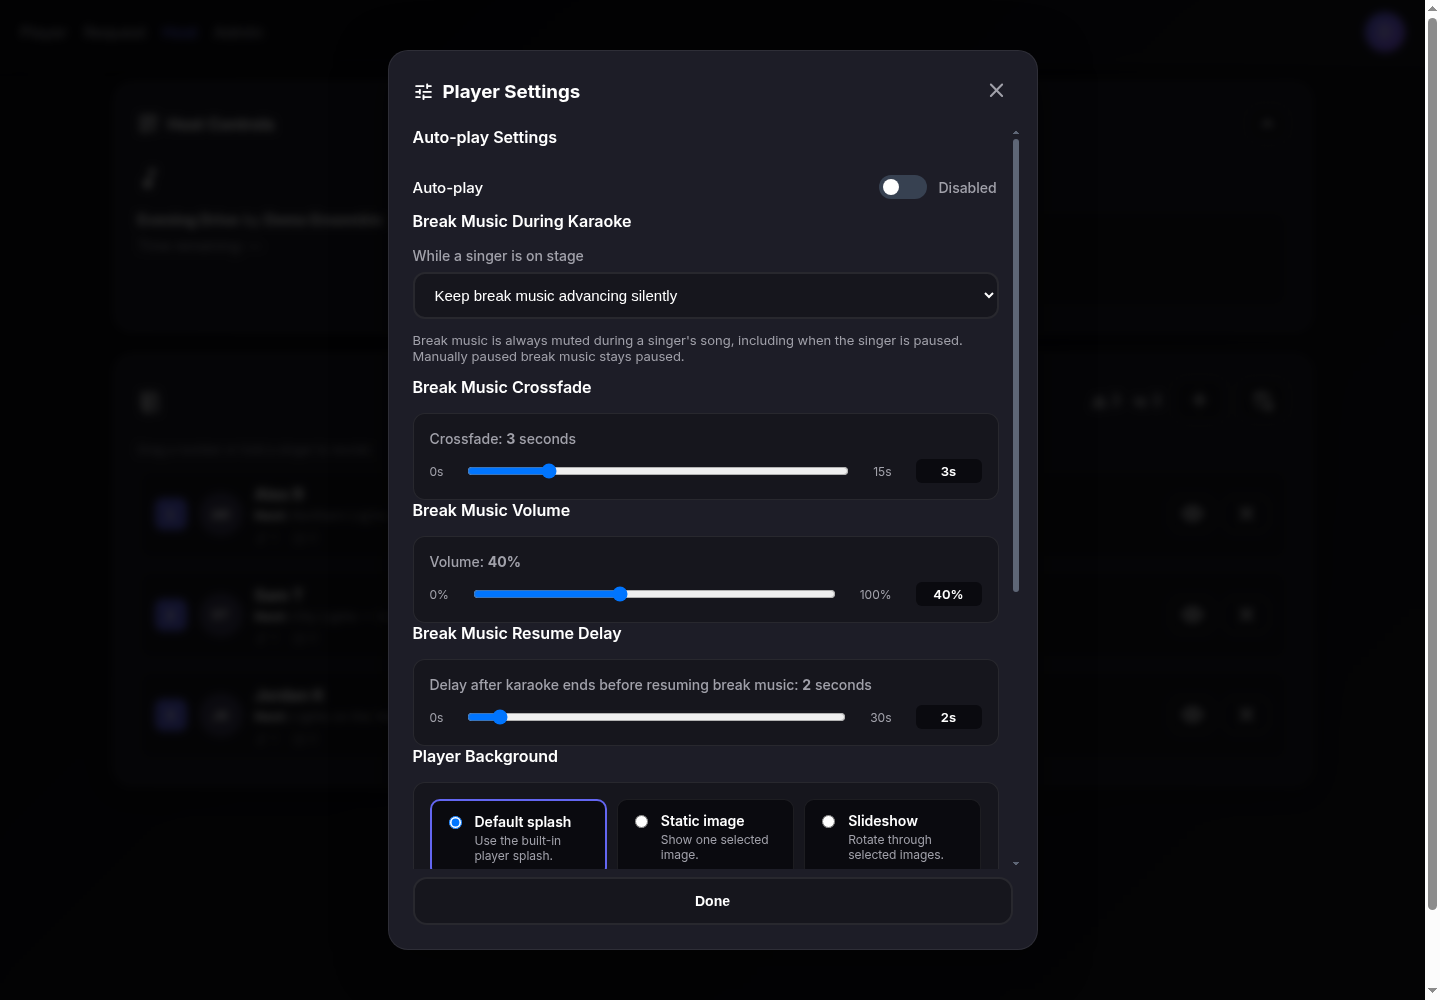
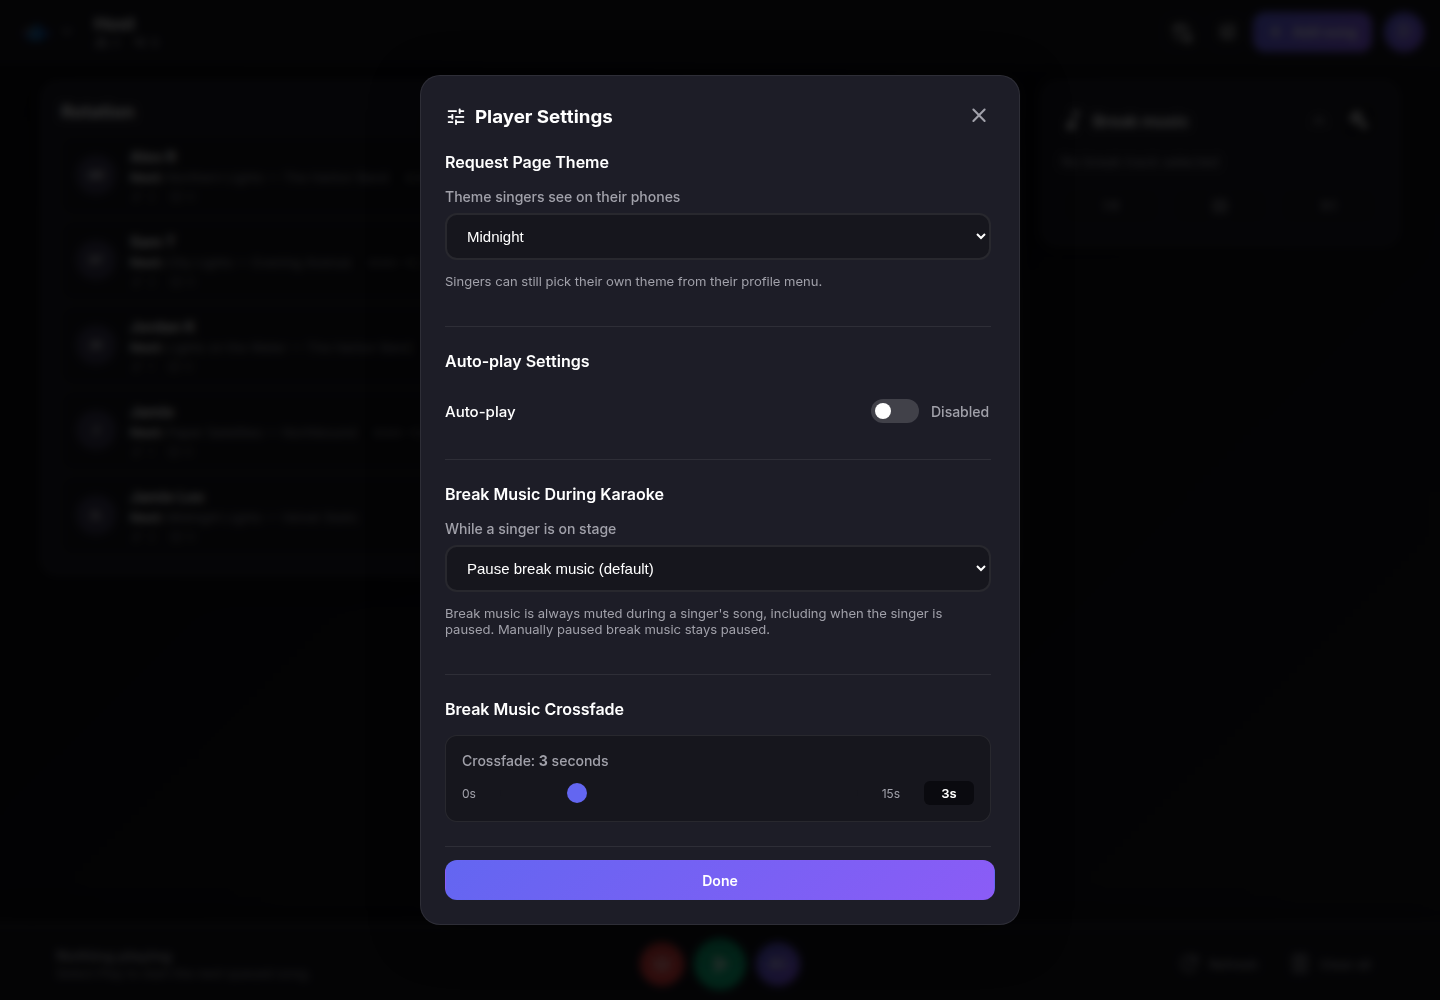
Documentation update

diff --git a/src/web/src/pages/admin/KaraFunSection.tsx b/src/web/src/pages/admin/KaraFunSection.tsx
@@ -132,8 +132,8 @@ export default function KaraFunSection({ admin }: { admin: AdminState }) {
         <p style={{ margin: "0 0 16px", color: "var(--color-text-muted)", fontSize: 14 }}>
           Connect a KaraFun subscription account to include its catalog in song search.
           Credentials are hashed with the same scheme as the KaraFun desktop app before
-          being stored; the clear password is never saved or returned. The Player streams
-          KaraFun songs directly; nothing is downloaded to the media library.
+          being stored; the clear password is never saved or returned. KaraFun songs are
+          never saved to the media library.
         </p>
 
         <div className="form-group">
@@ -211,22 +211,22 @@ export default function KaraFunSection({ admin }: { admin: AdminState }) {
           )}
           <div style={{ marginTop: 12, paddingTop: 12, borderTop: "1px solid var(--color-border)", fontSize: 14 }}>
             <div>
-              <strong>Renderer:</strong> built-in KaraokeDock engine (Web Audio +
-              WebGL)
+              <strong>Playback:</strong> built-in KaraokeDock engine
             </div>
             <div style={{ color: "var(--color-text-muted)", fontSize: 13, marginTop: 4 }}>
-              No KaraFun application or proprietary engine files are required.
-              The Player renders lyrics, backgrounds and a MilkDrop-family
-              visualizer in the browser, and follows the Host's key changes.
+              No KaraFun application or engine files are required. When a song is
+              requested, the server mixes it at the requested key and keeps the mix in
+              memory for up to 4 hours. The Player streams that mix and shows KaraFun's
+              lyrics and title card over an animated background. A key change made while
+              the song is queued is mixed again; a change during the song is not applied.
             </div>
           </div>
         </div>
 
         <p style={{ margin: "12px 0 0", color: "var(--color-text-muted)", fontSize: 13 }}>
-          KaraFun audio is streamed and played in the browser as Ogg Vorbis; it is only
-          held in a short-lived memory cache, not saved to the media library. It needs a
-          browser with Ogg Vorbis support (Chrome, Edge, Firefox and the Android Player app;
-          not Safari).
+          If the server mix is unavailable, the Player mixes the song in the browser
+          instead. That fallback needs Ogg Vorbis support (Chrome, Edge, Firefox and the
+          Android Player app; not Safari).
         </p>
       </div>
     </div>

diff --git a/docs/README.md b/docs/README.md
@@ -11,6 +11,7 @@ can manage the show from one screen while guests request songs from their phones
 - [Changelog and upgrade notes](../CHANGELOG.md)
 - [Features](#features)
 - [Web pages overview](#web-pages-overview)
+- [Themes](#themes)
 - [Quick start with Docker](#quick-start-with-docker)
 - [First-time setup](#first-time-setup)
 - [Authentication and roles](#authentication-and-roles)
@@ -25,14 +26,20 @@ can manage the show from one screen while guests request songs from their phones
 
 - Local MP4, CDG+MP3, and ZIP karaoke libraries, with FFmpeg transcoding and
   pitch adjustment.
-- Combined local and Karaoke Nerds search, relevance-ranked results, and
-  artist/song browsing.
+- Combined local, Karaoke Nerds and KaraFun search, relevance-ranked results,
+  and artist/song browsing.
+- Optional KaraFun catalog (with a KaraFun subscription): songs are prepared on
+  the server when requested and played on the Player with KaraFun's own lyric
+  timing, title card and an animated background. Nothing is saved to the media library.
 - Live singer queues, drag-and-drop ordering, multiple rotation policies,
   autoplay, singer recall, and history import/export.
 - Break music playlists, crossfades, and a choice to pause or silently advance
   break music during a performance.
-- Singer profiles, pictures and crops, optional Google/Facebook login, and
-  administrator-managed account linking.
+- Singer profiles, pictures and crops, optional Google/Facebook login,
+  administrator-managed account linking, and Host merging of a guest profile into
+  a signed-in singer.
+- A warning when a singer requests a song (any version) that another singer
+  already has queued.
 - Local password login and OIDC group-based roles.
 - Fullscreen Player with QR code, scrolling queue, custom backgrounds, and
   separate Host/Player PWA installation.
@@ -55,17 +62,31 @@ Replace `your-server:5173` with your server address or public HTTPS hostname.
 Old `/requests` links redirect to `/request`. Unknown page paths return 404.
 Public legal pages are available at `/privacy` and `/terms`.
 
-The screenshots below were captured from the current UI on **2026-10-23** with
-fictional singers and sample catalog data, not a live venue or production account.
+The screenshots below were captured from the current UI on **2026-11-23** with
+fictional singers, songs and accounts, not a live venue or production account.
 
 ### Request
 
-Search local and enabled online sources from the same page. Browse Artists and
-Browse Songs reuse the main query and restrict it to the selected field. Open
-the cog for search options; use the profile menu for name, picture, history,
-logout, and application version.
+Search local and enabled online sources from the same page. Artists and Songs
+reuse the main query and restrict it to the selected field. Results show where
+each version comes from: a disc ID and format for local songs, a globe for
+Karaoke Nerds videos, and the KaraFun logo for KaraFun songs. Use the profile
+menu for name, picture, history, logout, and application version.
 
-![Current Request page showing combined search and sample song results](screenshots/requests-page.png)
+![Current Request page showing local, Karaoke Nerds and KaraFun results](screenshots/requests-page.png)
+
+Open the filter button to choose a source (All, Local, Online for Karaoke Nerds,
+or KaraFun), where to search, and the format. Format applies only to local
+songs, so it is disabled while the KaraFun source is selected.
+
+![Request filters with the KaraFun source selected and Format disabled](screenshots/requests-karafun-filter.png)
+
+**My Queue** lists your requested songs with the version you picked: the disc
+and format, the Karaoke Nerds brand, or KaraFun, plus any key change. If you
+request a song another singer already has queued, in any version, it is still
+added and a warning tells you.
+
+![My Queue on a phone showing a local CDG song and a KaraFun song](screenshots/requests-my-queue.png)
 
 ### Host
 
@@ -73,7 +94,24 @@ Managed Users and Admins can add singers, reorder or clear queues, recall
 singers, manage history, and control playback. Drag a queue number or hold a
 singer card to reorder on supported touch devices.
 
-![Current Host page with a three-singer sample queue](screenshots/host-page.png)
+![Current Host page with a five-singer sample rotation](screenshots/host-page.png)
+
+#### Add songs for a singer
+
+**Add song** searches the local library, Karaoke Nerds (External), KaraFun, or
+takes a video URL. On a phone the four sources wrap onto two rows.
+
+![Add to Queue dialog searching KaraFun](screenshots/host-add-song.png)
+
+#### Merge a guest into a signed-in singer
+
+When someone first joined by name and later signed in with Google, Facebook, SSO
+or a password, open either singer and select the **Merge guest singer** button. Pick the signed-in
+singer to keep and the guest profile to merge in. The guest's queue and history
+move to the signed-in singer, whose name and picture are kept; logins and their
+permissions do not change. Linking two logins to each other stays an Admin action.
+
+![Merge Guest Singer into Login dialog on Host](screenshots/host-guest-merge.png)
 
 #### Manage break music
 
@@ -94,27 +132,53 @@ warning without discarding the saved playlist.
 
 #### Configure playback settings
 
-Use Host's settings control for autoplay, rotation, break music behavior,
-backgrounds, and QR/scroller options.
+Use Host's settings control for the Request page theme, autoplay, rotation,
+break music behavior, backgrounds, and QR/scroller options.
 
 ![Current Player Settings dialog opened from Host](screenshots/player_mgmt.png)
 
 ### Player
 
 Open Player on the show display and control it from Host on another device.
+Between songs it shows who is up next and the address guests use to request.
 The QR code and scroller remain separate from video playback. Local video uses
 cover sizing, which can crop edges when aspect ratios differ.
 
-![Current Player waiting screen with sample singer, QR code, and queue scroller](screenshots/player-page.png)
+![Current Player waiting screen with the next singer, request address, QR code and queue scroller](screenshots/player-page.png)
 
 ### Admin
 
-Admins manage media libraries and scans, break music folders, accounts,
-authentication, library availability, and public legal information. Linking
-social logins to a managed account is an explicit Admin action; matching names
-does not automatically grant access.
+Admins manage media libraries and scans, break music folders, the KaraFun
+account, accounts, authentication, library availability, backups, and public
+legal information. Linking social logins to a managed account is an explicit
+Admin action; matching names does not automatically grant access.
 
-![Current Admin dashboard with sample library and statistics](screenshots/admin-page.png)
+![Current Admin overview with sample statistics and sections](screenshots/admin-page.png)
+
+The **KaraFun** section stores the KaraFun account used for the online catalog
+and shows its connection status. The password is stored only as a hash. Turn
+KaraFun on or off for singers under System → Library Availability & Requests.
+When a KaraFun song is requested, the server mixes it at the requested key and
+keeps the mix in memory for up to 4 hours; the Player streams it. KaraFun songs
+are never saved to the media library.
+
+![Admin KaraFun section with a fictional connected account](screenshots/admin-karafun.png)
+
+### Themes
+
+KaraokeDock has three themes: **Midnight** (the default), **Stage** and
+**Daylight**.
+
+- **Venue theme:** the Host sets it under Player Settings → Request Page Theme.
+  It is used by the Request page and the Player.
+- **Singers** can keep the venue theme or pick their own from the profile menu
+  on the Request page. The choice is remembered on that phone.
+- **Host and Admin** share one theme, chosen from the account menu in the top
+  bar and remembered in that browser.
+
+![The Request page in the Midnight, Stage and Daylight themes](screenshots/themes-request.png)
+
+![The Host page in the Stage and Daylight themes](screenshots/themes-host.png)
 
 ## Quick start with Docker
 

diff --git a/docs/unraid_readme.md b/docs/unraid_readme.md
@@ -10,6 +10,7 @@ This guide covers installing KaraokeDock on Unraid from **Community Applications
 - A share or folder for karaoke tracks
 - Optional folders for downloaded tracks and break music
 - Persistent writable folders for downloads, uploaded player images, and exported playlists
+- Optional: a KaraFun subscription account, to add KaraFun's online catalog
 
 ## Recommended shares and folders
 
@@ -188,6 +189,31 @@ Leave it blank to let KaraokeDock auto-pick a value.
 
 The advanced **Media Scan Interval (ms)** setting defaults to `900000` (15 minutes). Enable **periodic media library scan** in Admin separately; changing the interval alone does not enable scanning. The first enabled pass reconciles the library, and subsequent passes scan changed folders. Failed scans remain pending for retry.
 
+## KaraFun (optional)
+
+KaraokeDock can add the KaraFun online catalog to song search for venues with a
+KaraFun subscription. It needs no extra paths or template variables, only
+outbound HTTPS access from the container to KaraFun.
+
+1. In Admin, open **KaraFun**, enter the KaraFun username/e-mail and password,
+   then select **Save KaraFun settings** and **Test connection**.
+2. Turn KaraFun on for singers under **Admin → System → Library Availability &
+   Requests**. Singers then see KaraFun results, tagged with the KaraFun logo,
+   and a KaraFun source filter on the Request page.
+
+Things to know on Unraid:
+
+- **Nothing is written to your shares.** When a KaraFun song is requested, the
+  server mixes it with FFmpeg at the requested key (up to two songs at a time)
+  and keeps the mix in memory for up to 4 hours. The cache holds at most 40
+  songs or 256 MB. If you set a memory limit on the container, leave room for it.
+- **The password is stored only as a hash**, with the other settings in
+  PostgreSQL, so database backups include the KaraFun configuration.
+- **Player browsers:** the Player streams the server's mix, so any current
+  browser works. If the server mix is unavailable, the Player falls back to mixing
+  in the browser, which needs Ogg Vorbis support (Chrome, Edge, Firefox or the
+  Android Player app, not Safari).
+
 ## First startup
 
 1. Start PostgreSQL.
@@ -201,6 +227,7 @@ http://UNRAID_IP:5173/admin
 
 5. Add `/media/karaoke` as a local library in Admin, and `/media/breakmusic` as a break-music folder if used. Use container paths, not Unraid host paths.
 6. Run a library scan from the Admin page.
+   Optionally, set up [KaraFun](#karafun-optional).
 7. Open the Host page:
 
 ```text
